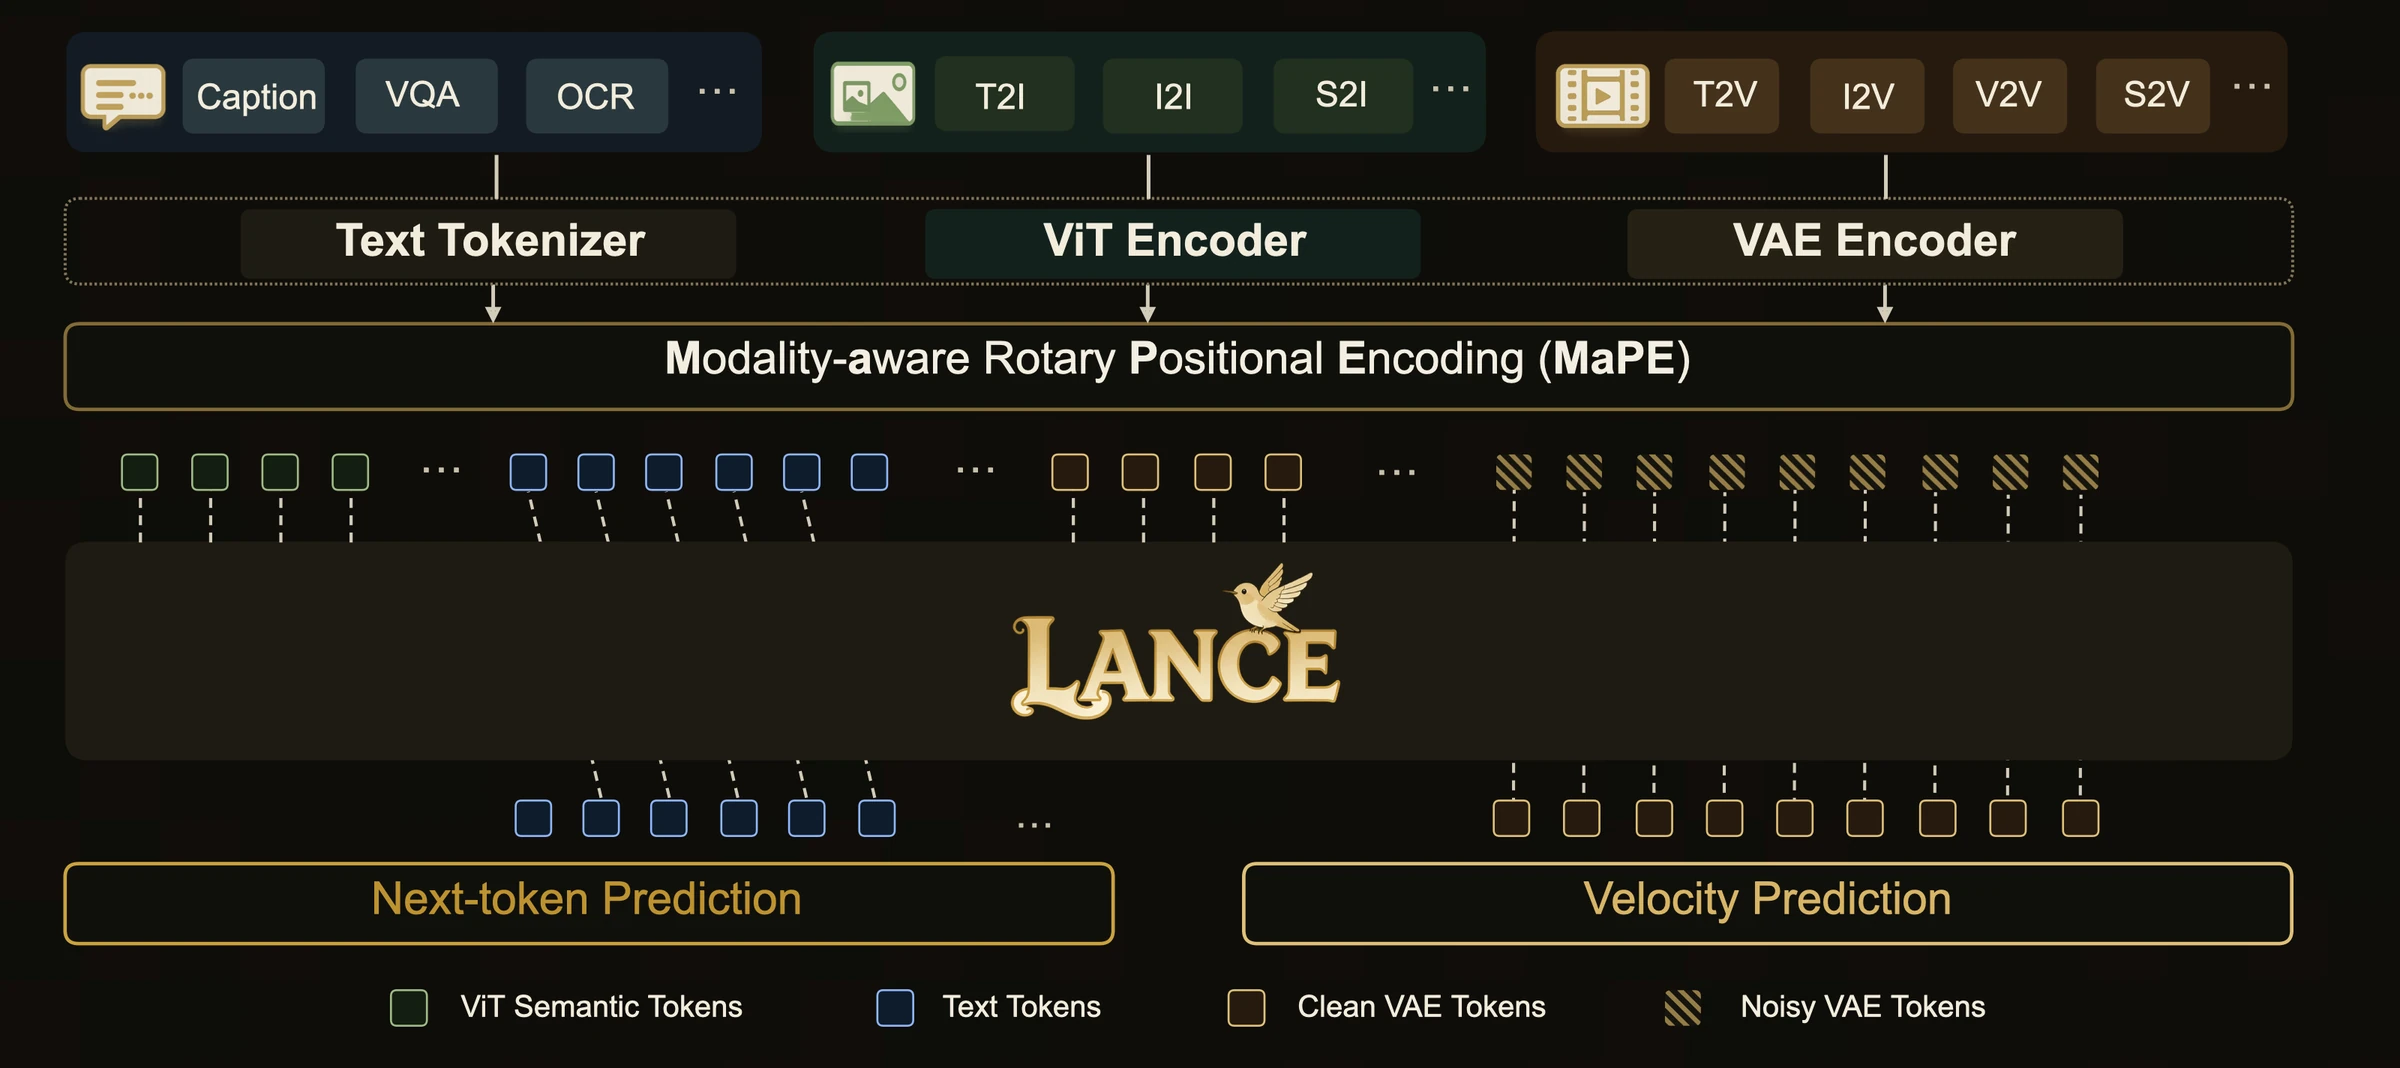
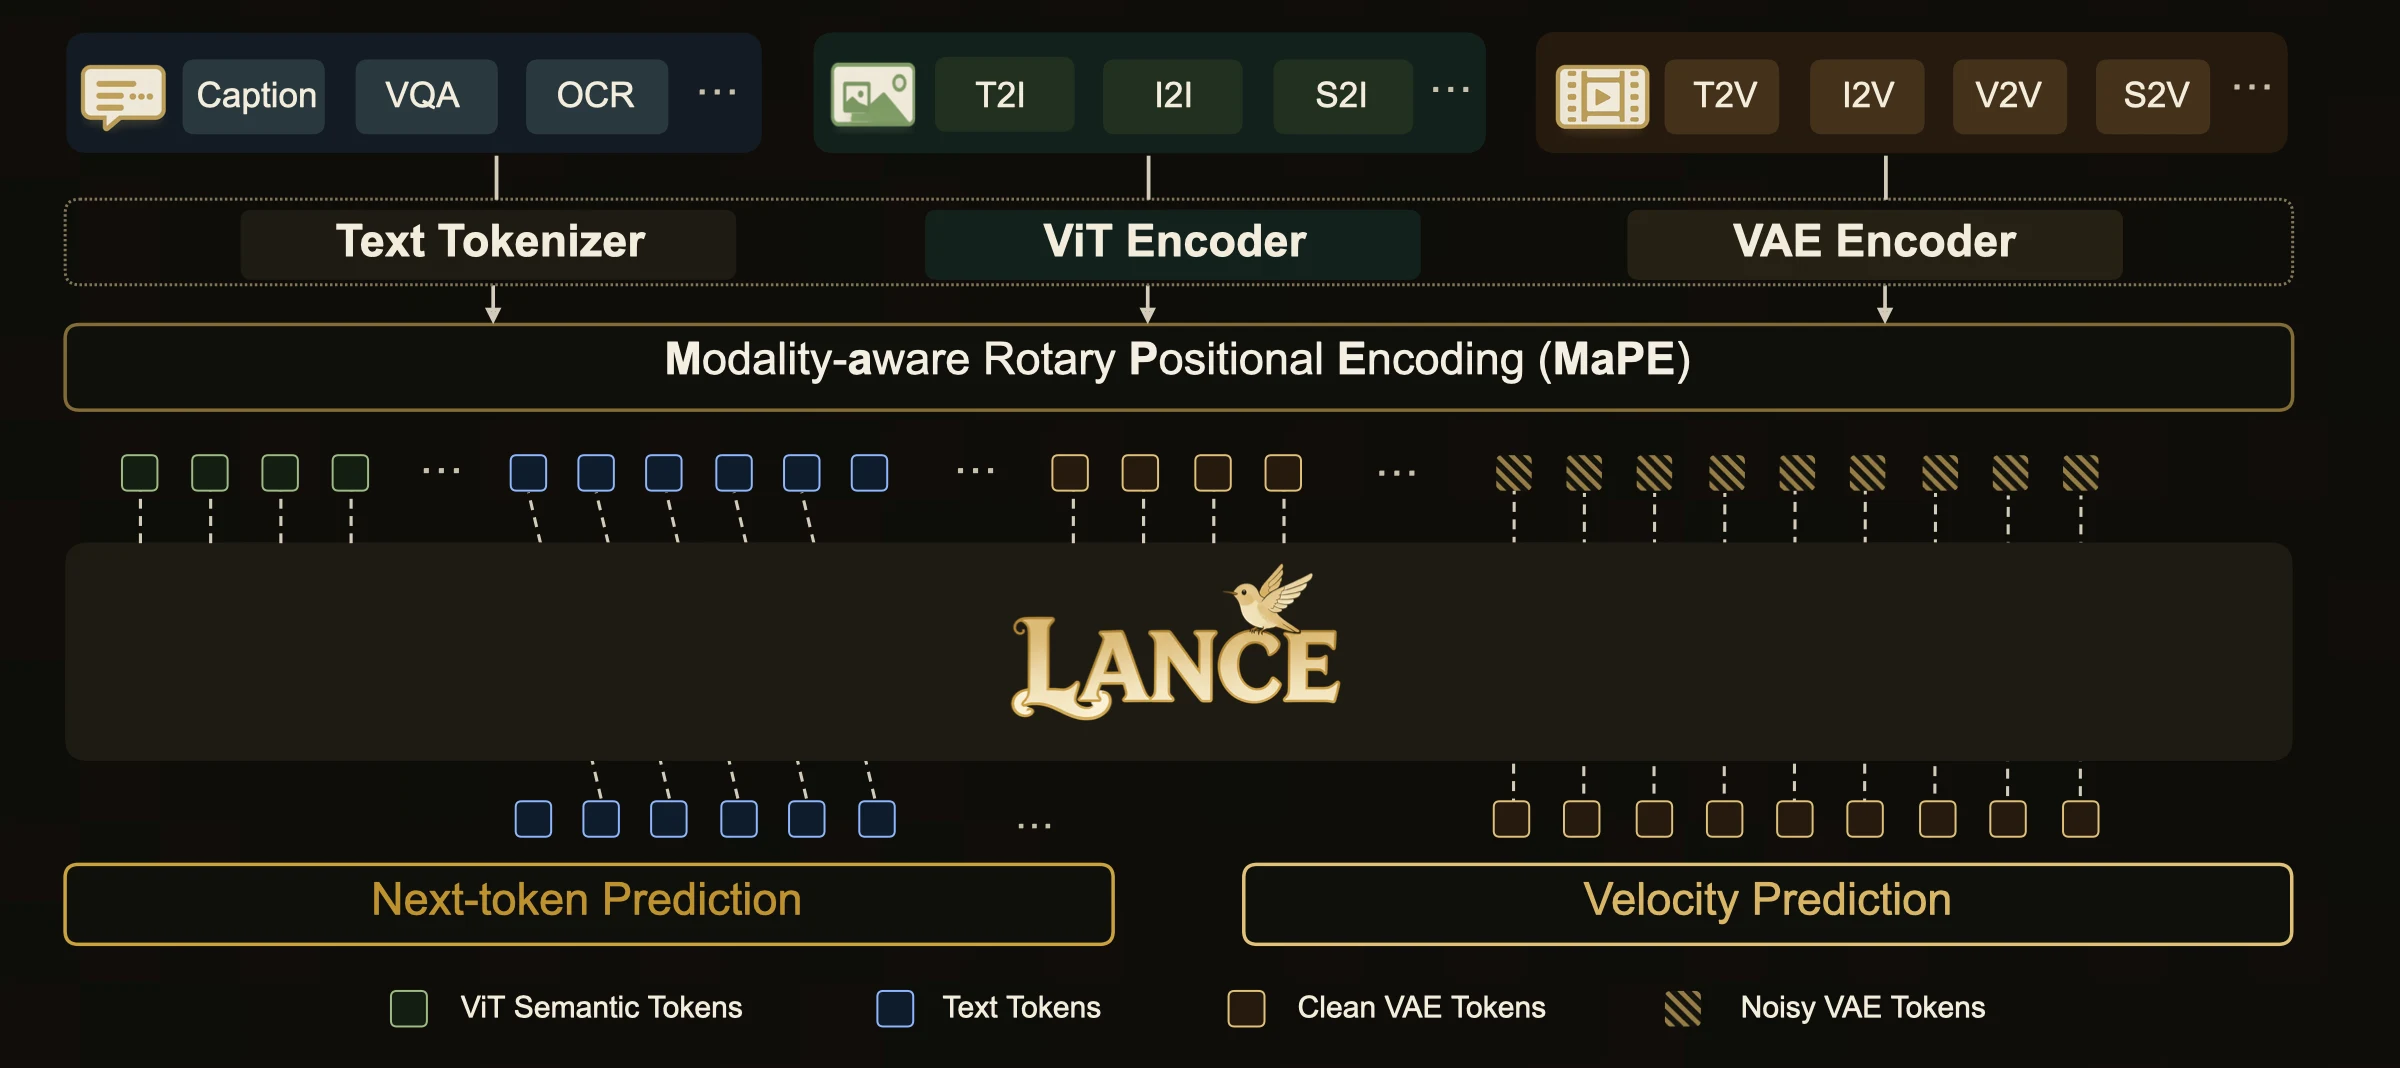
Update homepage media and CTA styling

diff --git a/styles.css b/styles.css
@@ -483,34 +483,35 @@ main {
 }
 
 .link-btn-muted {
-  border-color: rgba(242, 208, 128, 0.5);
+  border-color: rgba(232, 196, 118, 0.44);
   background:
-    linear-gradient(180deg, rgba(255, 232, 169, 0.16), rgba(216, 181, 102, 0.07)),
-    rgba(23, 20, 13, 0.86);
+    linear-gradient(180deg, rgba(255, 232, 169, 0.12), rgba(216, 181, 102, 0.05)),
+    rgba(18, 16, 11, 0.78);
   box-shadow:
-    0 0 0 1px rgba(216, 181, 102, 0.08),
-    0 14px 34px rgba(0, 0, 0, 0.28),
-    inset 0 1px 0 rgba(255, 244, 212, 0.14);
-  color: #f2dfad;
+    0 0 0 1px rgba(216, 181, 102, 0.055),
+    0 12px 28px rgba(0, 0, 0, 0.24),
+    0 0 16px rgba(216, 181, 102, 0.08),
+    inset 0 1px 0 rgba(255, 244, 212, 0.11);
+  color: #efdca9;
   opacity: 1;
-  text-shadow: 0 0 18px rgba(216, 181, 102, 0.28);
+  text-shadow: 0 0 14px rgba(216, 181, 102, 0.16);
 }
 
 .link-btn-muted:hover,
 .link-btn-muted:focus-visible {
-  border-color: rgba(255, 227, 160, 0.86);
+  border-color: rgba(255, 227, 160, 0.82);
   background:
-    linear-gradient(180deg, rgba(255, 232, 169, 0.26), rgba(216, 181, 102, 0.12)),
-    rgba(32, 27, 16, 0.96);
+    linear-gradient(180deg, rgba(255, 232, 169, 0.2), rgba(216, 181, 102, 0.085)),
+    rgba(27, 23, 14, 0.96);
   box-shadow:
     0 0 0 1px rgba(255, 227, 160, 0.14),
-    0 18px 42px rgba(0, 0, 0, 0.34),
-    0 0 28px rgba(216, 181, 102, 0.18),
-    inset 0 1px 0 rgba(255, 244, 212, 0.2);
-  color: #fff4d2;
+    0 16px 34px rgba(0, 0, 0, 0.32),
+    0 0 24px rgba(216, 181, 102, 0.18),
+    inset 0 1px 0 rgba(255, 244, 212, 0.18);
+  color: #fff3c9;
   outline: 0;
-  text-shadow: 0 0 22px rgba(255, 227, 160, 0.34);
-  transform: translateY(-1px);
+  text-shadow: 0 0 18px rgba(255, 227, 160, 0.28);
+  transform: translateY(-2px);
 }
 
 .hero-showcase {